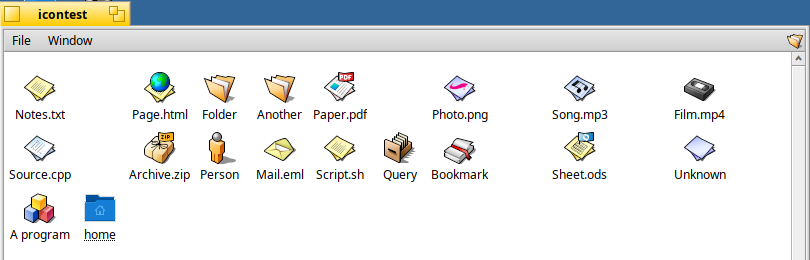
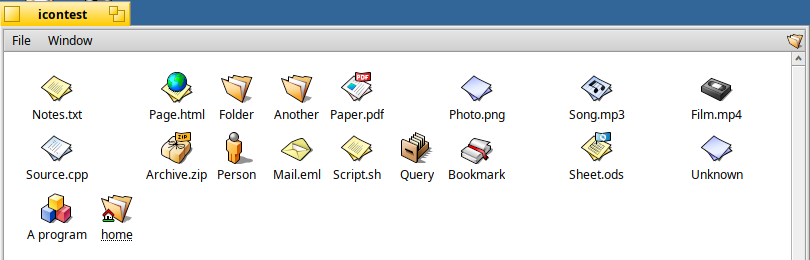
Add BeOS-style tabs and retake the screenshots
Claude-Session: https://claude.ai/code/session_01PoWUVQ2Z76RzeEbsFvPvPp

diff --git a/index.html b/index.html
@@ -167,6 +167,16 @@ powertheme --mode=toggle</pre>
 	</section>
 
 	<section>
+		<h2>BeOS-style tabs</h2>
+		<div class="sheet">
+			<p>Window borders can now draw a classic BeOS tab, even in a theme that wasn't made for one. It's as wide as the title and sits on top of the frame, with close on the left and zoom on the right. Shift-drag it to slide it along the window, and stacked windows share the width. Reactionary is the first to support this, here in its Windows ME look.</p>
+			<img src="img/beos-tabs.png" width="1024" height="768" alt="Windows in the Reactionary ME look with narrow tabs on top of their frames, and a BeOS-style tabs checkbox in Power Theme." loading="lazy" style="margin:18px 0 6px;border:1px solid var(--line)">
+<pre>powertheme --beos-tabs=on</pre>
+			<p class="status"><b>On <a href="https://github.com/idumych/power-theme">Power Theme's main branch</a>,</b> not in a release yet. It's optional, and needs <b>Build add-ons…</b> run again.</p>
+		</div>
+	</section>
+
+	<section>
 		<h2>Switching by the time of day</h2>
 		<div class="sheet">
 			<p>Pick a time for light and a time for dark, and the theme in use follows them every day. A computer started at night comes up dark, and a theme you switch by hand stays until the next scheduled time.</p>
